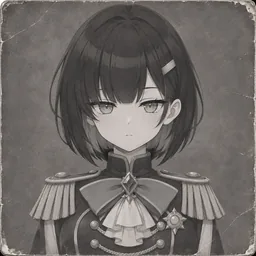
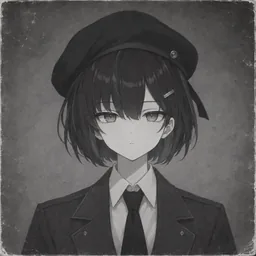
fix(art): 뒷모습 그웬 귀걸이 제거, 신분증 사진을 과거 모습으로

diff --git a/forced.css b/forced.css
@@ -23,7 +23,7 @@ body.is-forced{--r-panel:0;--r-box:0;--r-ctl:0;--brass:var(--fx-red);--line:#4a2
 [data-forced-art] .fx-scene .fx-glow{background:radial-gradient(ellipse 13% 30% at 49% 13%,rgba(255,214,140,.34),transparent 70%),radial-gradient(ellipse 16% 3% at 43% 19%,rgba(111,240,220,.4),transparent 75%);animation:fx-shimmer 10s steps(12) infinite}
 /* 뒷모습 그웬(gwen_back.webp — 그림을 바꿔 끼울 때는 이 파일만): 가까운 앞쪽 인물. 그림이 머리~허벅지까지라 발치는 띠 아래로 잘린 것처럼 보임.
    크기 = 띠 높이 × --fx-gs, 가로 자리 = --fx-gx(인물 가운데). 아래 끝은 띠 아래 끝보다 6px 밑(장면은 띠보다 커서 42% 지점을 기준으로 환산). 바람에 아주 살짝 흔들림 */
-[data-forced-art] .fx-scene .fx-gwen{inset:auto auto calc(42% - var(--fx-h)*.42 - 6px) var(--fx-gx);height:calc(var(--fx-h)*var(--fx-gs));aspect-ratio:270/520;translate:-50% 0;background:url(assets/forced/gwen_back.webp) center/contain no-repeat;transform-origin:50% 100%;
+[data-forced-art] .fx-scene .fx-gwen{inset:auto auto calc(42% - var(--fx-h)*.42 - 6px) var(--fx-gx);height:calc(var(--fx-h)*var(--fx-gs));aspect-ratio:271/520;translate:-50% 0;background:url(assets/forced/gwen_back.webp) center/contain no-repeat;transform-origin:50% 100%;
  filter:brightness(.84) drop-shadow(0 0 2px rgba(111,240,220,.5)) drop-shadow(0 0 7px rgba(111,240,220,.22));animation:fx-sway 7.5s ease-in-out infinite}
 /* 안개 두 겹(서로 반대로 흐름) */
 .fx-scene .fx-fog{inset:38% -60% -6% -60%;animation:fx-fog 74s steps(444) infinite alternate;

diff --git a/docs/forced_art.md b/docs/forced_art.md
@@ -11,7 +11,7 @@
 |---|---|---|
 | `scene.webp` (1800×600) | 그웬 길 배경 한 장 | 생성 배경 그림을 크기만 줄임 |
 | `scene_narrow.webp` (800×555) | 폭 760px 이하의 그웬 길 배경 | 같은 그림에서 가로 17~65% 구간(의자~광장)만 잘라 줄임 |
-| `gwen_back.webp` (270×520) | 배경 앞에 선 뒷모습 그웬(머리~허벅지) | 생성 알파 잡음을 정리한 뒤 여백을 자르고 위 62%만 남겨 줄임 |
+| `gwen_back.webp` (271×520) | 배경 앞에 선 뒷모습 그웬(머리~허벅지) | 생성 알파 잡음을 정리한 뒤 여백을 자르고 위 62%만 남겨 줄임 |
 | `gwen_idcard.webp` (256×256) | «관리 실패» 판정 줄의 신분증 사진(이스터에그) | 생성 그림을 크기만 줄임 |
 
 폴더의 파일 목록은 `gwen_lane.js` `FORCED.scene` 과 같아야 함(`tests/forced_test.js` 가 확인).
@@ -28,12 +28,13 @@ python -X utf8 tools/build_forced_art.py --gen-dir <원본 그림 폴더>
 ## 그림 바꿔 끼우기
 
 - **배경**: 새 그림을 같은 이름으로 두고 위 명령을 다시 돌림. 가로세로 비율이 3:1 이 아니면 `forced.css` 의 `--fx-ar`(넓은 화면 3, 좁은 화면 1.44)도 맞춤. 좁은 화면용 자르는 구간은 `tools/build_forced_art.py` 의 `NARROW` 임.
-- **뒷모습 그웬**: 새 투명 그림(전신)을 같은 이름으로 두고 같은 명령을 돌림. 알파 10 미만은 0, 245 초과는 255로 정리하고 중간 가장자리 투명도는 보존함(승인 그웬 빌더와 같은 기준). 위에서 얼마나 남길지는 도구의 `BACK_KEEP`(지금 0.62 = 머리~허벅지 중간)임. 도구가 찍어 주는 가로÷세로 값에 맞춰 `forced.css` `.fx-gwen` 의 `aspect-ratio`를 출력 파일의 실제 크기(지금 270/520)로 맞춤. 크기는 `--fx-gs`(띠 높이 대비, 지금 0.84), 가로 자리는 `--fx-gx`(인물 가운데, 넓은 화면 66%·좁은 화면 82%)임.
+- **뒷모습 그웬**: 새 투명 그림(전신)을 같은 이름으로 두고 같은 명령을 돌림. 알파 10 미만은 0, 245 초과는 255로 정리하고 중간 가장자리 투명도는 보존함(승인 그웬 빌더와 같은 기준). 위에서 얼마나 남길지는 도구의 `BACK_KEEP`(지금 0.62 = 머리~허벅지 중간)임. 도구가 찍어 주는 가로÷세로 값에 맞춰 `forced.css` `.fx-gwen` 의 `aspect-ratio`를 출력 파일의 실제 크기(지금 271/520)로 맞춤. 크기는 `--fx-gs`(띠 높이 대비, 지금 0.84), 가로 자리는 `--fx-gx`(인물 가운데, 넓은 화면 66%·좁은 화면 82%)임.
 - 움직이는 층(안개 2겹·재·불씨·고리 빛·주기 노이즈)은 그림이 아니라 `forced.css` 의 CSS 임.
 
 ## 출처
 
 - codex 내장 image_gen 으로 만든 정식 그림(2026-11-23)임. 원본 PNG 는 저장소 밖에 보관함. «정식»은 사이트 채택본이라는 뜻이며 게임사의 공식 원화가 아닌 생성 팬 그림임. 원 캐릭터·디자인의 권리는 원 권리자에게 있음.
-- 배경은 기존 임시본의 구도를 참조했음. 그웬은 승인 등신대 `tools/gwen_art/masters5/st_point.webp`의 외형·화풍과 공식 카드 `assets/savior/gwen_art.webp`의 의상을 기준으로 했음. 뒷모습 임시본은 자세만 참조했고 신분증은 모자·넥타이를 없애 승인 군복으로 맞췄음.
-- 전체 프롬프트·참조 목록은 [forced_art_prompts.json](../tools/forced_art_prompts.json). 배경·신분증 각 1회, 뒷모습 2회(위쪽 시선 보완·투명 배경 재요청)로 총 4회 생성했음. 알파 합성으로 배경 제거를 확인했으며 미세 잡음은 빌더에서 정리함.
-- 원본 크기는 배경 2172×724(3:1), 뒷모습 1024×1536 RGBA, 신분증 1254×1254임. 배포 4파일 합계 201,954바이트임. 기존 `NARROW`·`BACK_KEEP`·위치·표시 높이를 유지했음.
+- 배경은 기존 임시본의 구도를 참조했음. 뒷모습 그웬은 승인 등신대 `tools/gwen_art/masters5/st_point.webp`의 외형·화풍과 공식 카드 `assets/savior/gwen_art.webp`의 의상을 기준으로 했으며 임시본은 자세만 참조했음. 신분증은 `506b228^`의 옛 임시 사진을 직접 참조해 베레모·셔츠·넥타이·재킷을 갖춘 과거 모습으로 맞췄으며, 승인 등신대는 얼굴·화풍에만 참조했음.
+- 전체 프롬프트·참조 목록은 [forced_art_prompts.json](../tools/forced_art_prompts.json). 최초 4회에 이번 수정 2회(뒷모습 국소 편집·과거 신분증 각 1회, 재시도 없음)를 더해 누적 6회 생성했음. 알파 합성으로 배경 제거를 확인했으며 미세 잡음은 빌더에서 정리함.
+- 원본 크기는 배경 2172×724(3:1), 뒷모습 1024×1536 RGBA, 신분증 1254×1254임. 배포 4파일 합계 198,946바이트임. 기존 `NARROW`·`BACK_KEEP`·위치·표시 높이를 유지했음.
+- PM 검수 수정(2026-11-23): 내장 image_gen 국소 편집으로 왼쪽 귀걸이를 지웠고, 옛 신분증을 직접 참조해 과거 복장·낡은 흑백 사진 질감을 복원했음. 이전 원본은 `*_v1.png`로 보관하고 `compare.png`·`layout_review.png`를 다시 만들었음.

diff --git a/docs/HISTORY.md b/docs/HISTORY.md
@@ -1,3 +1,11 @@
+## 2026-11-23 — 강제 탐색 그웬 귀걸이·과거 신분증 수정
+
+PM 검수에 따라 내장 image_gen으로 뒷모습의 청록색 술 귀걸이를 국소 편집해 지웠고, 신분증을 과거 모습으로 고쳤음. 각 1회, 총 2회 호출했으며 재시도는 없었음.
+
+- 신분증은 `506b228^`의 옛 임시 사진을 직접 참조했음. 검은 베레모·작은 배지·머리핀·짙은 단발·흰 셔츠·검은 넥타이·어두운 재킷 깃과 무표정 정면, 낡은 흑백 사진 질감을 복원했음. 승인 등신대는 얼굴·화풍에만 참조했음.
+- 이전 원본은 저장소 밖의 `*_v1.png`로 보관했음. 원본 이름을 유지해 WebP를 다시 만들고 `compare.png`·`layout_review.png`를 갱신했음. 뒷모습은 271×520이 되어 CSS 비율만 맞췄으며 배경 2파일은 이전 커밋과 바이트 동일함. 배포 4파일 합계 198,946바이트임.
+- 호출 프롬프트·참조·채택 여부는 `tools/forced_art_prompts.json`, 출처는 `docs/forced_art.md`에 갱신했음. `forced_test.js`(변이 7건 포함), `run_tests.py forced gwen` 16통과·0실패, 전체 실행 273통과·0실패(환경상 대조 6건 건너뜀), HTML 빌드와 세 화면 폭의 정지 배치 검토를 마쳤음.
+
 ## 2026-11-23 — 강제 탐색 그림 3장 정식 그림으로 교체
 
 내장 image_gen으로 폐허·도시 배경, 뒷모습 그웬, 낡은 흑백 증명사진을 만들었음. 배경은 기존 구도를 유지하고, 그웬은 승인 등신대의 외형·화풍과 공식 카드 의상을 참조했음. 총 4회(배경·신분증 각 1회, 뒷모습 2회) 생성했음. «정식»은 사이트 채택본을 뜻하며 게임사의 공식 원화는 아님.
